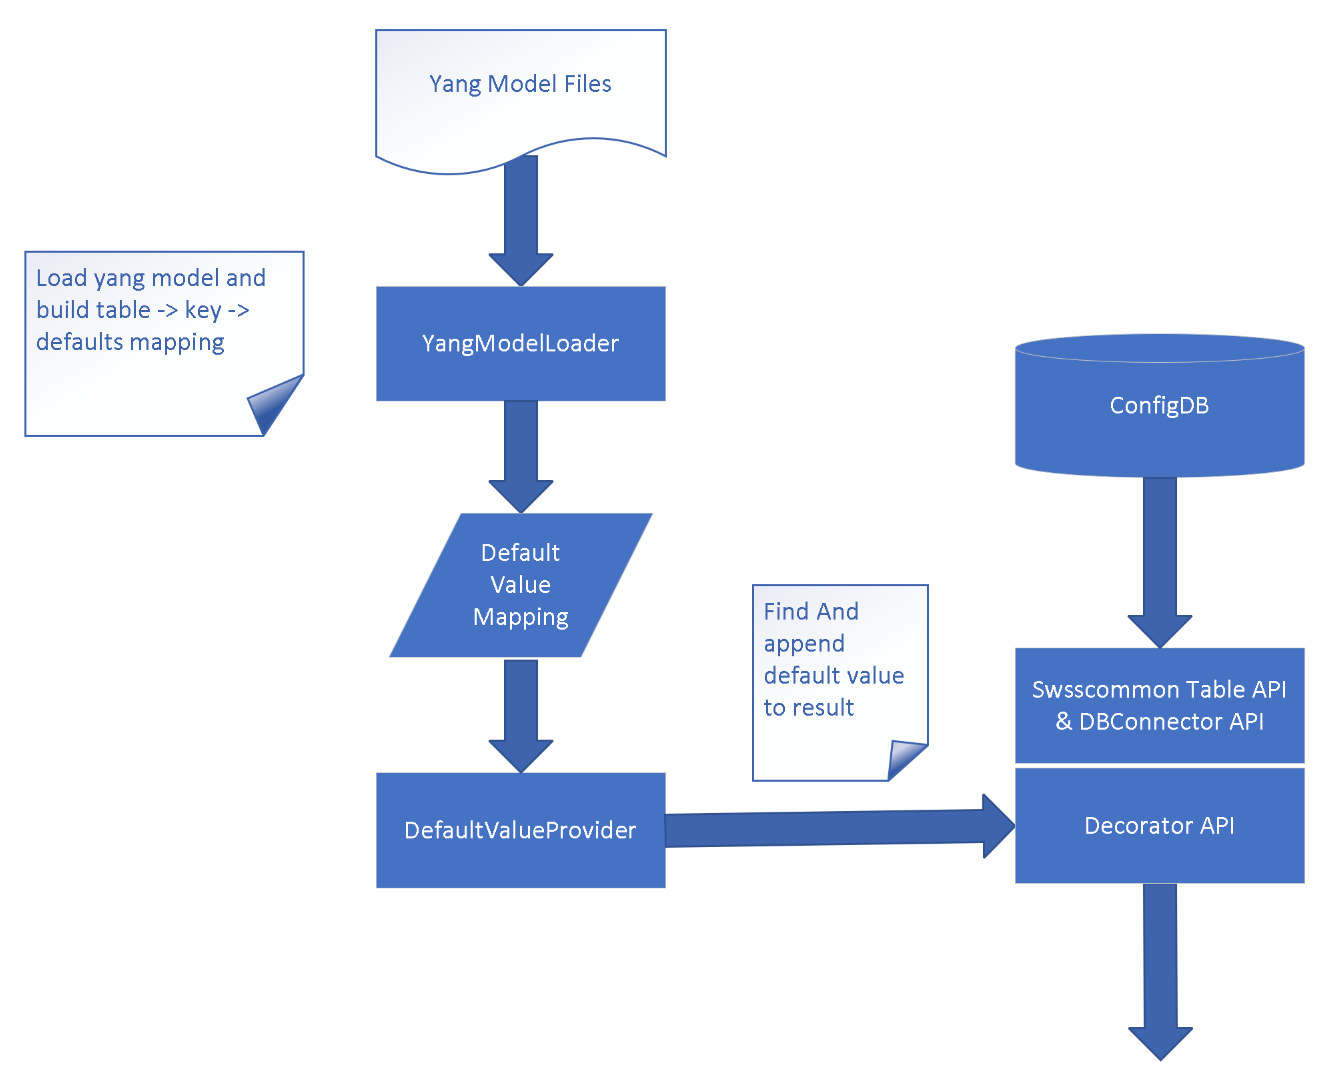
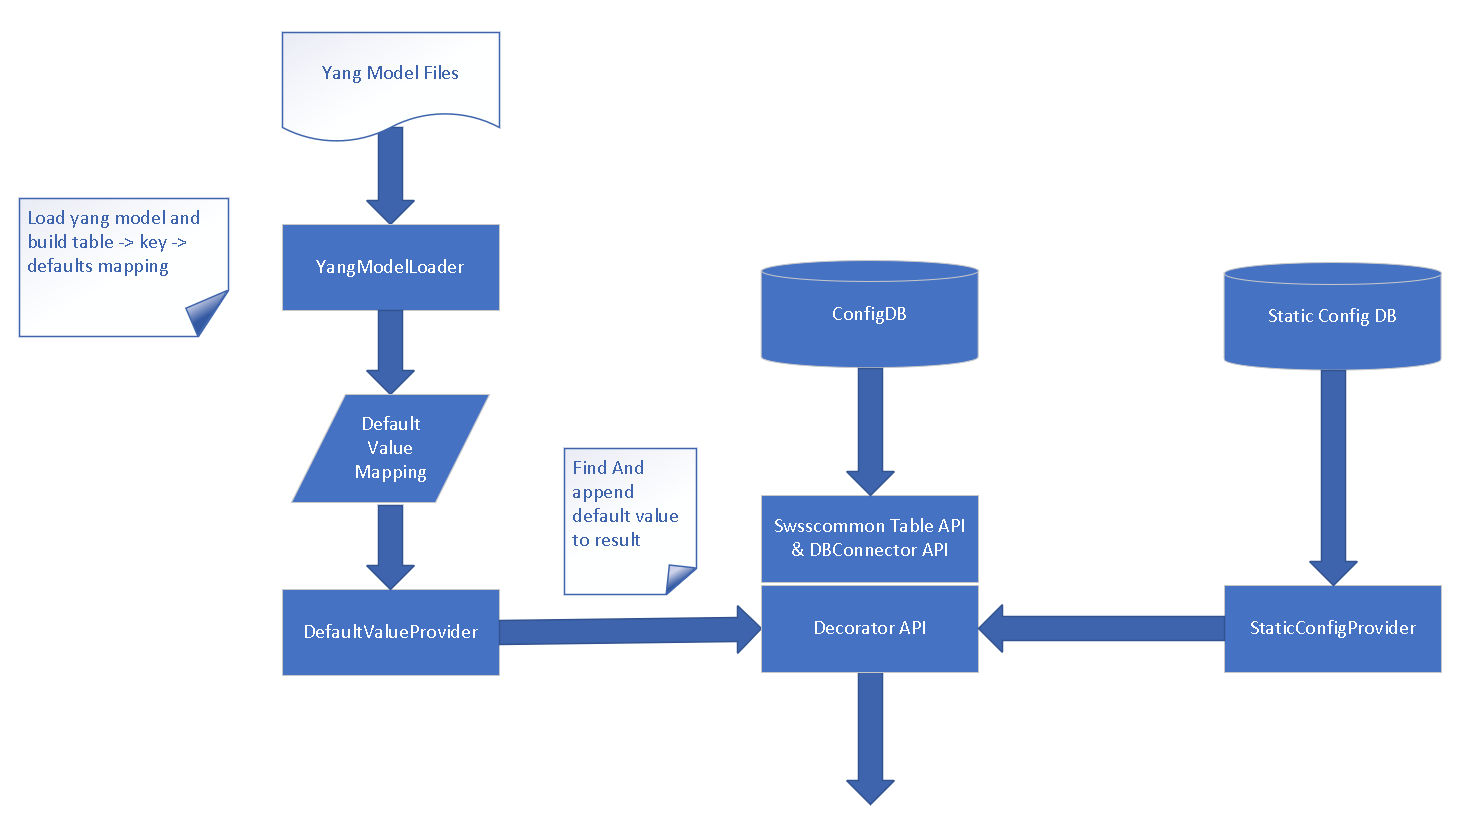
Update design document

Changed region(s): [[0.0, 0.1248, 1.0, 0.9676], [0.184, 0.0, 0.46, 0.0936], [0.276, 0.1248, 0.3067, 0.1561]]

diff --git a/doc/mgmt/SONiC_layered_ConfigDB.md b/doc/mgmt/SONiC_layered_ConfigDB.md
@@ -30,11 +30,9 @@ This document provides a detailed description on the new features for:
  - swss-common API change.
 
 ## SONiC issue solved by this feature
- - Static config data modify by user but can't revert:
-    - Buffer config are static data render by J2 templates.
-    - User config mixed with static buffer config:
-      - Buffer config update by GCU will overwrite user config.
-      - User can't revert user change to default config.
+ - Static config data can modify by user, for example:
+    - Buffer profile are static data render by J2 templates.
+    - User config mixed with static buffer profile, user can modify buffer profile, but can't revert user change to default config.
  - Potential risk, Yang model default value conflict with hardcoded value:
     - Default value hardcoded in source code.
     - Yang model default value not used.
@@ -63,13 +61,9 @@ This document provides a detailed description on the new features for:
 
 <img src="./images/swss-common-layer.png"  />
 
- - Yang default value layer diagram:
+ - API design diagram:
 
 <img src="./images/swss-common-default-value.png"  />
-
- - Static config DB design diagram:
-
-<img src="./images/swss-common-static-config.png"  />
 
 ## 2.1 Considerations
 ### How to get default value
